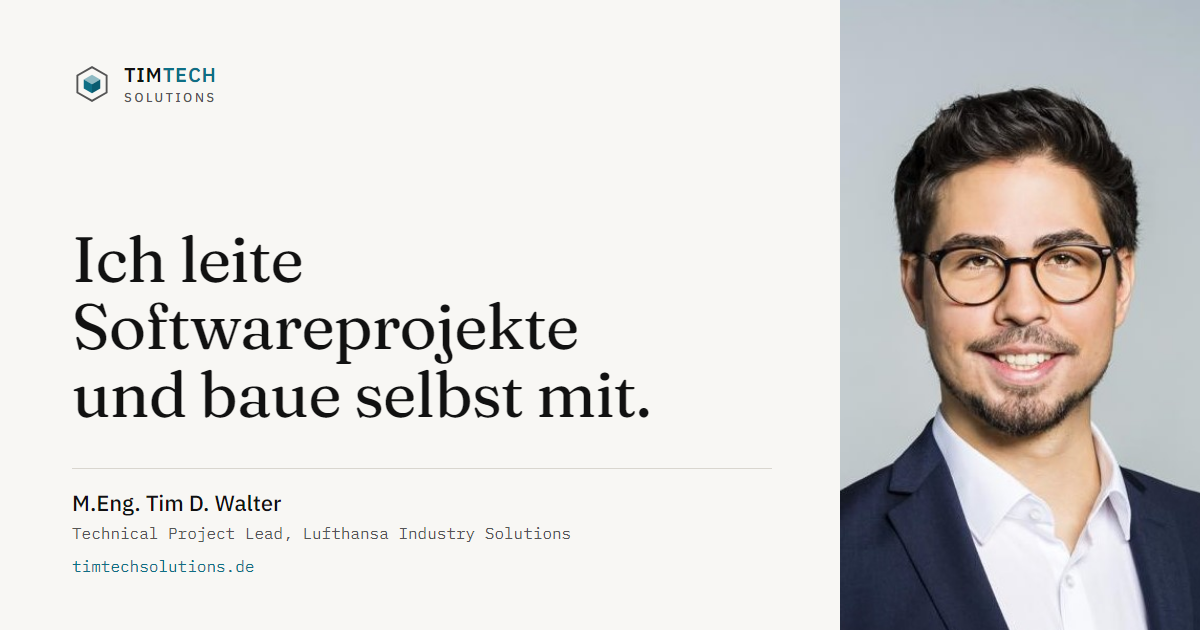
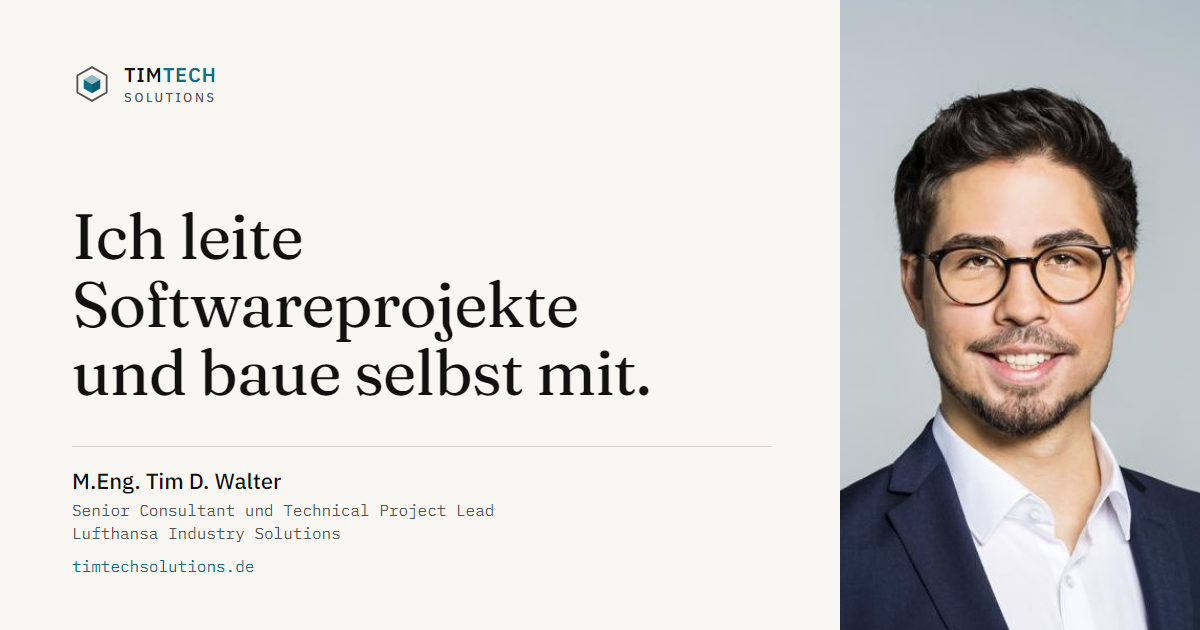
content: Senior Consultant title; 'How I work' in Tim's final wording (DE/EN)
- Role everywhere: Senior Consultant and Technical Project Lead at
  Lufthansa Industry Solutions (hero facts, career, about intro, /now,
  link preview images); titles kept on one line
- 'How I work': Tim's final EN and DE text verbatim – two paragraphs,
  five principles incl. 'Ask critical questions'; lead sentence removed;
  first principle spans both columns
- Link preview images re-rendered (role and company on two lines)

Changed region(s): [[0.0617, 0.3317, 0.555, 0.6635], [0.0617, 0.7238, 0.4625, 0.8746]]

diff --git a/src/content/de.ts b/src/content/de.ts
@@ -35,7 +35,7 @@ export const de: Dictionary = {
     rows: [
       {
         title: "Arbeit",
-        text: "Technical Project Lead bei Lufthansa Industry Solutions. Angebote schreibe ich inzwischen KI-gestützt mit Claude und Microsoft 365 Copilot.",
+        text: "Senior Consultant und Technical Project Lead bei Lufthansa Industry Solutions. Angebote schreibe ich inzwischen KI-gestützt mit Claude und Microsoft 365 Copilot.",
       },
       {
         title: "Bauen",
@@ -59,7 +59,7 @@ export const de: Dictionary = {
     email: "oder E-Mail schreiben",
     factsLabel: "Über Tim",
     role: "Rolle",
-    roleValue: "Technical Project Lead bei Lufthansa\u00a0Industry\u00a0Solutions",
+    roleValue: "Senior\u00a0Consultant und Technical\u00a0Project\u00a0Lead bei Lufthansa\u00a0Industry\u00a0Solutions",
     experience: "Erfahrung",
     experienceValue: "9+ Jahre",
     previously: "Zuvor",
@@ -73,27 +73,30 @@ export const de: Dictionary = {
   },
   howIWork: {
     title: "Wie ich arbeite",
-    lead: "Jemand, der erst das Problem versteht, kritisch hinterfragt, ehrlich schätzt, zwischen Business und Technik übersetzt und trotzdem selbst technisch liefern kann.",
     paragraphs: [
-      "Ich begleite Projekte von der ersten Anfrage bis zur Übergabe: Ausgangslage verstehen, Lösungsoptionen bewerten, Angebote schreiben, Aufwände schätzen, Budget und Zeitplan planen. Weil ich die Umsetzung selbst kenne, halten meine Schätzungen auch im Projekt. Und wenn die beste Empfehlung ist, etwas nicht zu bauen, sage ich das.",
-      "Als Tech Lead habe ich Teams technisch geführt, als Product Owner Geschäftsziele in ein Backlog übersetzt. Heute nutze ich beides, um zwischen Fachseite, Management und Entwicklung zu vermitteln, sodass alle über dasselbe reden.",
+      "Ich begleite Projekte von der ersten Anfrage bis zur Übergabe: Ausgangslage verstehen, Optionen bewerten, Angebote schreiben, Aufwände schätzen, Budget und Zeitplan aufstellen. Weil ich die Umsetzung selbst kenne, halten meine Schätzungen auch dann, wenn das Projekt läuft. Und wenn die beste Empfehlung ist, etwas nicht zu bauen, sage ich das.",
+      "Als Tech Lead habe ich Teams technisch geführt, als Product Owner Geschäftsziele in ein Backlog übersetzt. Heute bringe ich beides zusammen und arbeite zwischen Fachseite, Management und Entwicklung, damit am Ende alle vom Gleichen reden.",
     ],
     principles: [
       {
         title: "Erst das Problem verstehen",
-        text: "Bevor ich eine Lösung vorschlage, will ich verstehen, was eigentlich schiefläuft, was es kostet und wen es betrifft. Technologie ist Mittel, nicht Ziel.",
+        text: "Bevor ich eine Lösung vorschlage, will ich wissen, was eigentlich nicht funktioniert, was es kostet und wen es betrifft. Die passende Technologie ergibt sich daraus, nicht umgekehrt.",
+      },
+      {
+        title: "Kritisch nachfragen",
+        text: "Anforderungen, Schätzungen und Architektur hinterfrage ich, bevor gebaut wird. Das ist günstiger als ein späterer Umbau und gilt für KI-generierten Code genauso.",
       },
       {
         title: "Ehrlich schätzen",
-        text: "Ein Angebot, das nur gewinnt, weil es zu optimistisch ist, hilft niemandem. Ich schätze so, wie ich es selbst umsetzen müsste.",
+        text: "Ein Angebot, das nur gewinnt, weil es zu optimistisch ist, hilft niemandem. Ich schätze so, als müsste ich es selbst umsetzen.",
       },
       {
         title: "An morgen denken",
-        text: "Wer betreibt das System in zwei Jahren? Was kostet es, wenn es wächst? Wie kommt man wieder raus, wenn sich ein Anbieter ändert? Diese Fragen kläre ich, bevor Verträge unterschrieben sind.",
+        text: "Wer betreibt das System in zwei Jahren? Was kostet es, wenn es wächst? Wie kommt man wieder heraus, wenn ein Anbieter seine Konditionen ändert? Ich sorge dafür, dass diese Fragen beantwortet sind, bevor Verträge unterschrieben werden.",
       },
       {
         title: "Übergeben statt abhängig machen",
-        text: "Gute Dokumentation, saubere Übergaben und Wissenstransfer gehören für mich zum Projekt. Der Kunde soll danach selbst weiterkommen.",
+        text: "Gute Dokumentation, saubere Übergaben und Wissenstransfer gehören für mich zum Projekt. Danach soll der Kunde ohne mich weiterkommen.",
       },
     ],
   },
@@ -179,7 +182,7 @@ export const de: Dictionary = {
     eyebrow: "Über mich",
     title: "Hi, ich bin Tim.",
     intro:
-      "Ich bin Technical Project Lead bei Lufthansa Industry Solutions – Softwareentwickler, Cloud- & AI-Engineer und Tech Lead mit über 9 Jahren Erfahrung im Bau skalierbarer Systeme und in der Begleitung von Entwicklungsteams.",
+      "Ich bin Senior Consultant und Technical Project Lead bei Lufthansa Industry Solutions – Softwareentwickler, Cloud- & AI-Engineer und Tech Lead mit über 9 Jahren Erfahrung im Bau skalierbarer Systeme und in der Begleitung von Entwicklungsteams.",
     mission:
       "Mein Ziel: Organisationen helfen, Software zu liefern, die zählt – und dabei Kulturen zu schaffen, in denen gute Leute aufblühen.",
     storyTitle: "Mein Weg",

diff --git a/src/content/en.ts b/src/content/en.ts
@@ -33,7 +33,7 @@ export const en = {
     rows: [
       {
         title: "Work",
-        text: "Technical Project Lead at Lufthansa Industry Solutions. These days I write proposals with AI support, using Claude and Microsoft 365 Copilot.",
+        text: "Senior Consultant and Technical Project Lead at Lufthansa Industry Solutions. These days I write proposals with AI support, using Claude and Microsoft 365 Copilot.",
       },
       {
         title: "Building",
@@ -57,7 +57,7 @@ export const en = {
     email: "or send an email",
     factsLabel: "About Tim",
     role: "Role",
-    roleValue: "Technical Project Lead at Lufthansa\u00a0Industry\u00a0Solutions",
+    roleValue: "Senior\u00a0Consultant and Technical\u00a0Project\u00a0Lead at Lufthansa\u00a0Industry\u00a0Solutions",
     experience: "Experience",
     experienceValue: "9+ years",
     previously: "Previously",
@@ -71,23 +71,26 @@ export const en = {
   },
   howIWork: {
     title: "How I work",
-    lead: "Someone who understands the problem first, asks critical questions, estimates honestly, translates between business and technology, and can still deliver technically.",
     paragraphs: [
-      "I accompany projects from the first inquiry to the handover: understanding the situation, evaluating options, writing proposals, estimating effort, planning budget and schedule. Because I know the implementation side myself, my estimates hold up in the project. And if the best recommendation is not to build something, I say so.",
-      "As a tech lead I led teams technically; as a product owner I translated business goals into a backlog. Today I use both to mediate between the business side, management and development, so that everyone is talking about the same thing.",
+      "I take projects from the first inquiry to handover: understanding the situation, evaluating options, writing proposals, estimating effort, planning budget and schedule. Because I know the implementation side myself, my estimates hold up once the project starts. And if the best recommendation is not to build something, I say so.",
+      "As a tech lead I led teams technically; as a product owner I translated business goals into a backlog. Today I use both to work between the business side, management and development, so that everyone is talking about the same thing.",
     ],
     principles: [
       {
         title: "Understand the problem first",
-        text: "Before I propose a solution, I want to understand what is actually going wrong, what it costs and who it affects. Technology is a means, not an end.",
+        text: "Before I propose a solution, I want to understand what is actually going wrong, what it costs and who it affects. The right technology follows from that, not the other way round.",
+      },
+      {
+        title: "Ask critical questions",
+        text: "I question requirements, estimates and architecture before anything gets built. That's cheaper than rebuilding later, and it applies just as much to AI-generated code.",
       },
       {
         title: "Estimate honestly",
-        text: "A proposal that only wins because it is too optimistic helps no one. I estimate the way I would have to build it myself.",
+        text: "A proposal that only wins because it is too optimistic helps no one. I estimate as if I had to build it myself.",
       },
       {
         title: "Think about tomorrow",
-        text: "Who will run the system in two years? What will it cost as it grows? How do you get out again if a vendor changes? I settle these questions before contracts are signed.",
+        text: "Who will run the system in two years? What will it cost as it grows? How do you get out if a vendor changes its terms? I make sure these questions are answered before contracts are signed.",
       },
       {
         title: "Hand over instead of locking in",
@@ -177,7 +180,7 @@ export const en = {
     eyebrow: "About",
     title: "Hi, I'm Tim.",
     intro:
-      "I'm a Technical Project Lead at Lufthansa Industry Solutions – a software developer, cloud & AI engineer and tech leader with 9+ years of experience building scalable systems and mentoring development teams.",
+      "I'm a Senior Consultant and Technical Project Lead at Lufthansa Industry Solutions – a software developer, cloud & AI engineer and tech leader with 9+ years of experience building scalable systems and mentoring development teams.",
     mission:
       "My mission is to help organizations deliver software that matters – while building cultures where great people thrive.",
     storyTitle: "My story",

diff --git a/src/pages/index.tsx b/src/pages/index.tsx
@@ -100,17 +100,15 @@ export default function HomePage() {
       <Hero />
 
       <DocSection id="how-i-work" title={t.howIWork.title}>
-        <p className="max-w-[30ch] font-display text-[1.75rem] leading-snug text-ink lg:text-[2rem]">
-          {nb(t.howIWork.lead)}
-        </p>
-        <div className="mt-xl max-w-[52ch] space-y-md text-lg leading-relaxed text-ink">
+        <div className="max-w-[52ch] space-y-md text-lg leading-relaxed text-ink">
           {t.howIWork.paragraphs.map((p) => (
             <p key={p.slice(0, 24)}>{nb(p)}</p>
           ))}
         </div>
         <div className="mt-2xl grid gap-x-lg gap-y-xl sm:grid-cols-2">
-          {t.howIWork.principles.map((p) => (
-            <div key={p.title} className="border-t border-ink pt-md">
+          {t.howIWork.principles.map((p, i) => (
+            // five principles: the first one runs across both columns
+            <div key={p.title} className={`border-t border-ink pt-md ${i === 0 ? "sm:col-span-2" : ""}`}>
               <h3 className="text-[1.375rem] leading-snug">{p.title}</h3>
               <p className="mt-sm max-w-[52ch] text-[0.9375rem] leading-relaxed text-ink">{nb(p.text)}</p>
             </div>

diff --git a/src/content/data.ts b/src/content/data.ts
@@ -377,7 +377,7 @@ export type Station = { company: string; role?: L; current?: boolean };
 export const career: Station[] = [
   {
     company: "Lufthansa\u00a0Industry\u00a0Solutions",
-    role: { en: "Technical Project Lead", de: "Technical Project Lead" },
+    role: { en: "Senior Consultant and Technical Project Lead", de: "Senior Consultant und Technical Project Lead" },
     current: true,
   },
   { company: "Fraunhofer IAPT" },

diff --git a/PRODUCT.md b/PRODUCT.md
@@ -24,7 +24,7 @@ Personal portfolio of M.Eng. Tim D. Walter (brand: TimTech Solutions). It shows 
 
 ## Positioning
 
-Technical Project Lead at Lufthansa Industry Solutions who still writes code: Java/cloud backend, AI engineering and agentic development – with experience in medical imaging, aviation and smart campus planning. (Confirmed by Tim.)
+Senior Consultant and Technical Project Lead at Lufthansa Industry Solutions who still writes code: Java/cloud backend, AI engineering and agentic development – with experience in medical imaging, aviation and smart campus planning. (Confirmed by Tim.)
 
 Refined by Tim:
 - Primarily a **tech lead**, not a backend specialist.
@@ -36,7 +36,7 @@ Refined by Tim:
 - Still builds a good part himself; **high quality matters more than fast output**.
 - Home hero copy is Tim's own wording (EN); keep it.
 - **Technology consultant, not only a developer.** One-line positioning (Tim's words): "Technologieberatung, Projektleitung und Umsetzung für Software-, Cloud- und IoT-Systeme." Used in the footer and the home SEO description.
-- "Wie ich arbeite" (directly under the hero) is Tim's own text: understand the problem first, question critically, estimate honestly, translate between business and technology, still deliver; first inquiry to handover; says so when the best advice is not to build; think about operation/cost/exit before contracts; hand over instead of creating dependency.
+- "Wie ich arbeite" / "How I work" (directly under the hero) is Tim's own text in both languages – keep it verbatim: understand the problem first, question critically, estimate honestly, translate between business and technology, still deliver; first inquiry to handover; says so when the best advice is not to build; think about operation/cost/exit before contracts; hand over instead of creating dependency.
 
 ## Operating Context
 
@@ -61,7 +61,7 @@ Refined by Tim:
 
 - Professional photo: `public/TDW-Profil.jpg`.
 - Project images in `public/` are AI-generated; Tim explicitly keeps them (he likes them and will not make better ones).
-- Career: Lufthansa Industry Solutions (current, Technical Project Lead); earlier Fraunhofer IAPT (Institute for Additive Production Technologies) and Siemens Healthcare – shown by name only, without roles (Tim's request).
+- Career: Lufthansa Industry Solutions (current, Senior Consultant and Technical Project Lead); earlier Fraunhofer IAPT (Institute for Additive Production Technologies) and Siemens Healthcare – shown by name only, without roles (Tim's request).
 - 9+ years of experience; 2 years as Product Owner (aviation CMS).
 - Industries: MRI/CT prototypes and training software for the Indian and Chinese markets; aviation CMS (Product Owner, in contact with all airlines of the Lufthansa Group); process mining for airlines; maritime (Port of Lübeck); logistics; tourism (Germany); bus network planning (public transport); smart-campus use cases (project still running – keep it vague: no client, no number of use cases, no specific features); ESG reporting; a corporate talent management tool. Most of these have no further detail yet – do not invent any.
 - Certifications: PSPO, PSM, SAFe POPM, CKAD, EU drone pilot certificate A1/A3.
